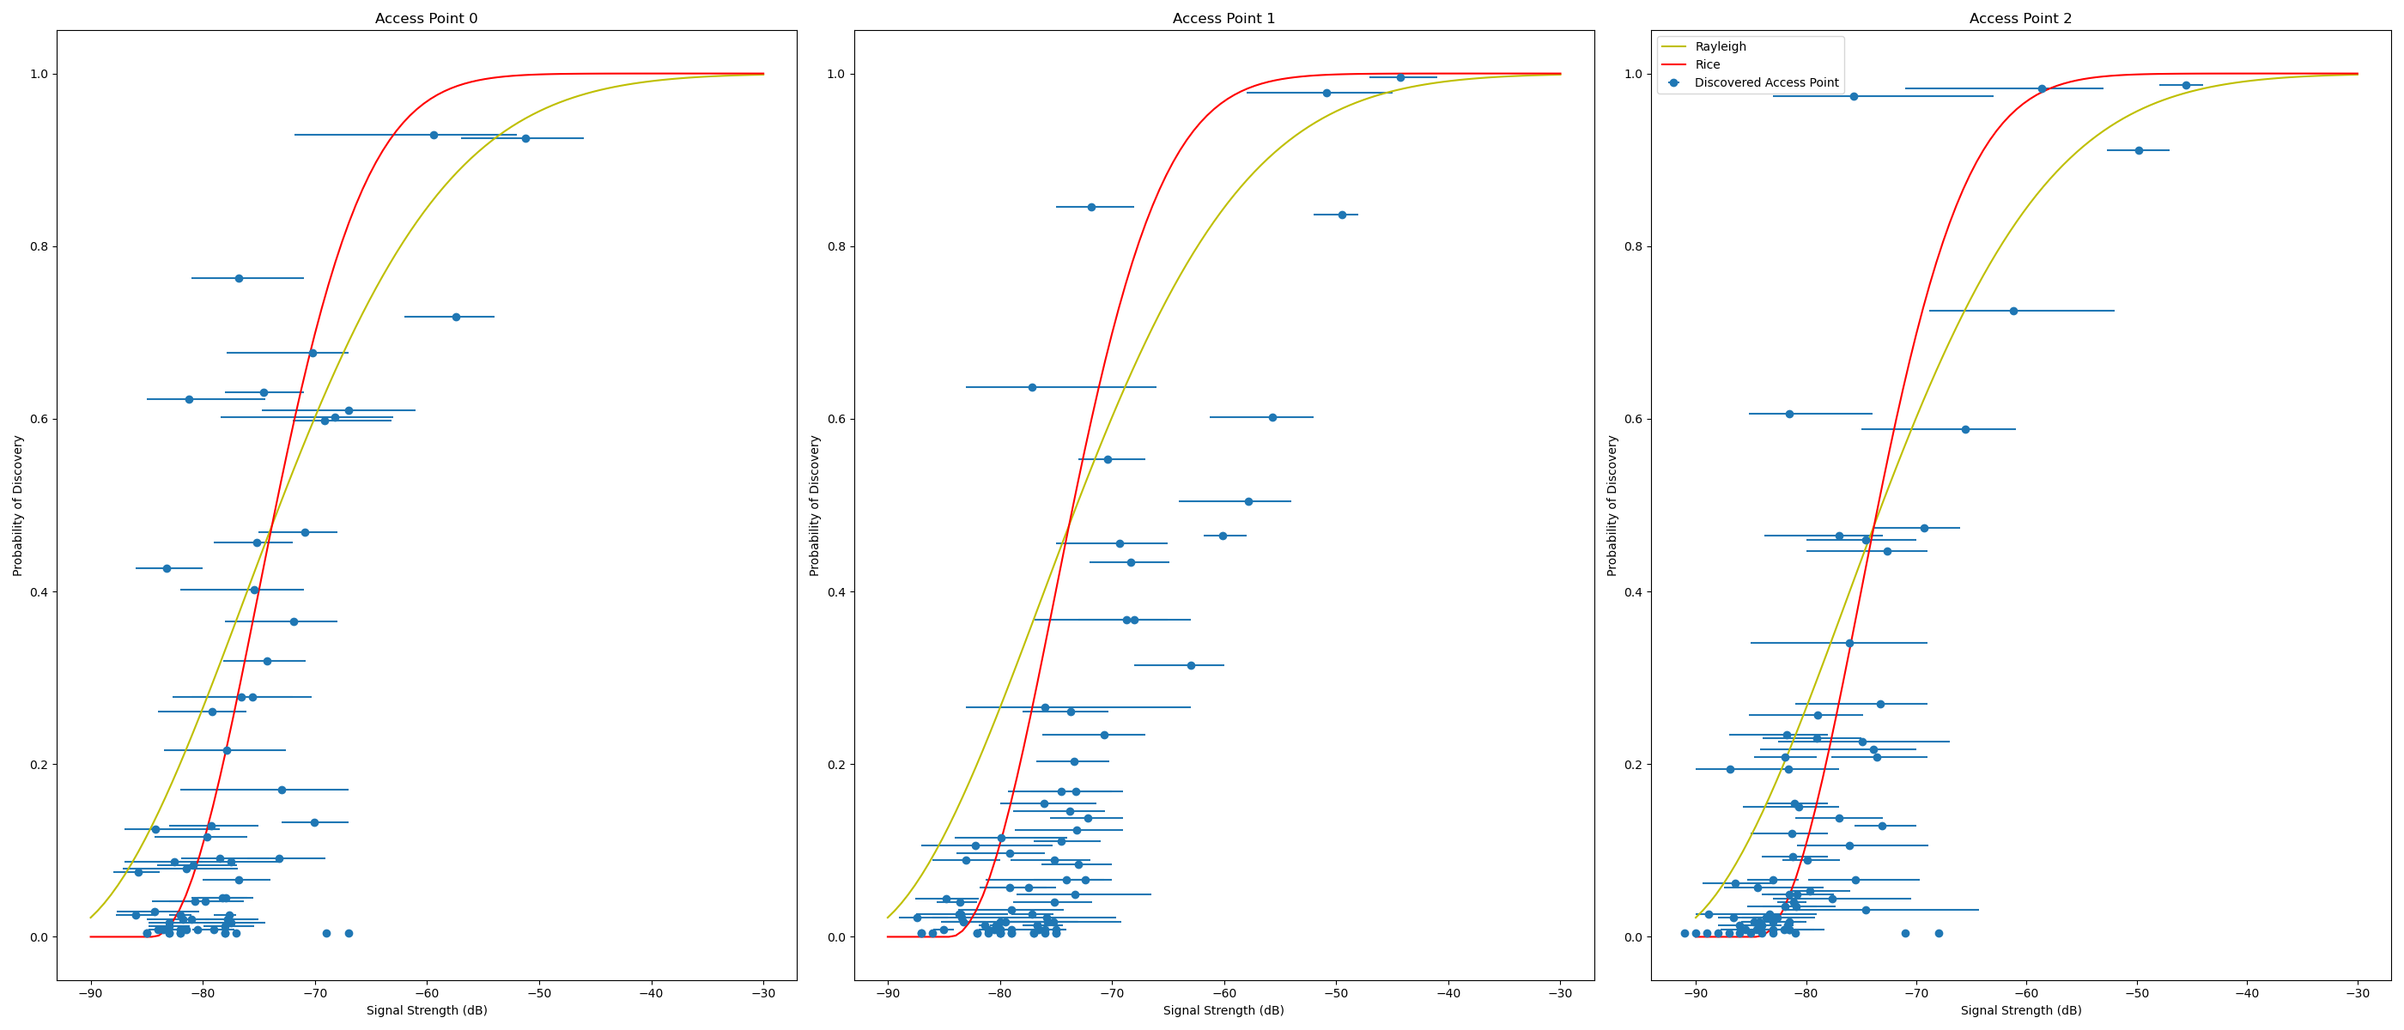
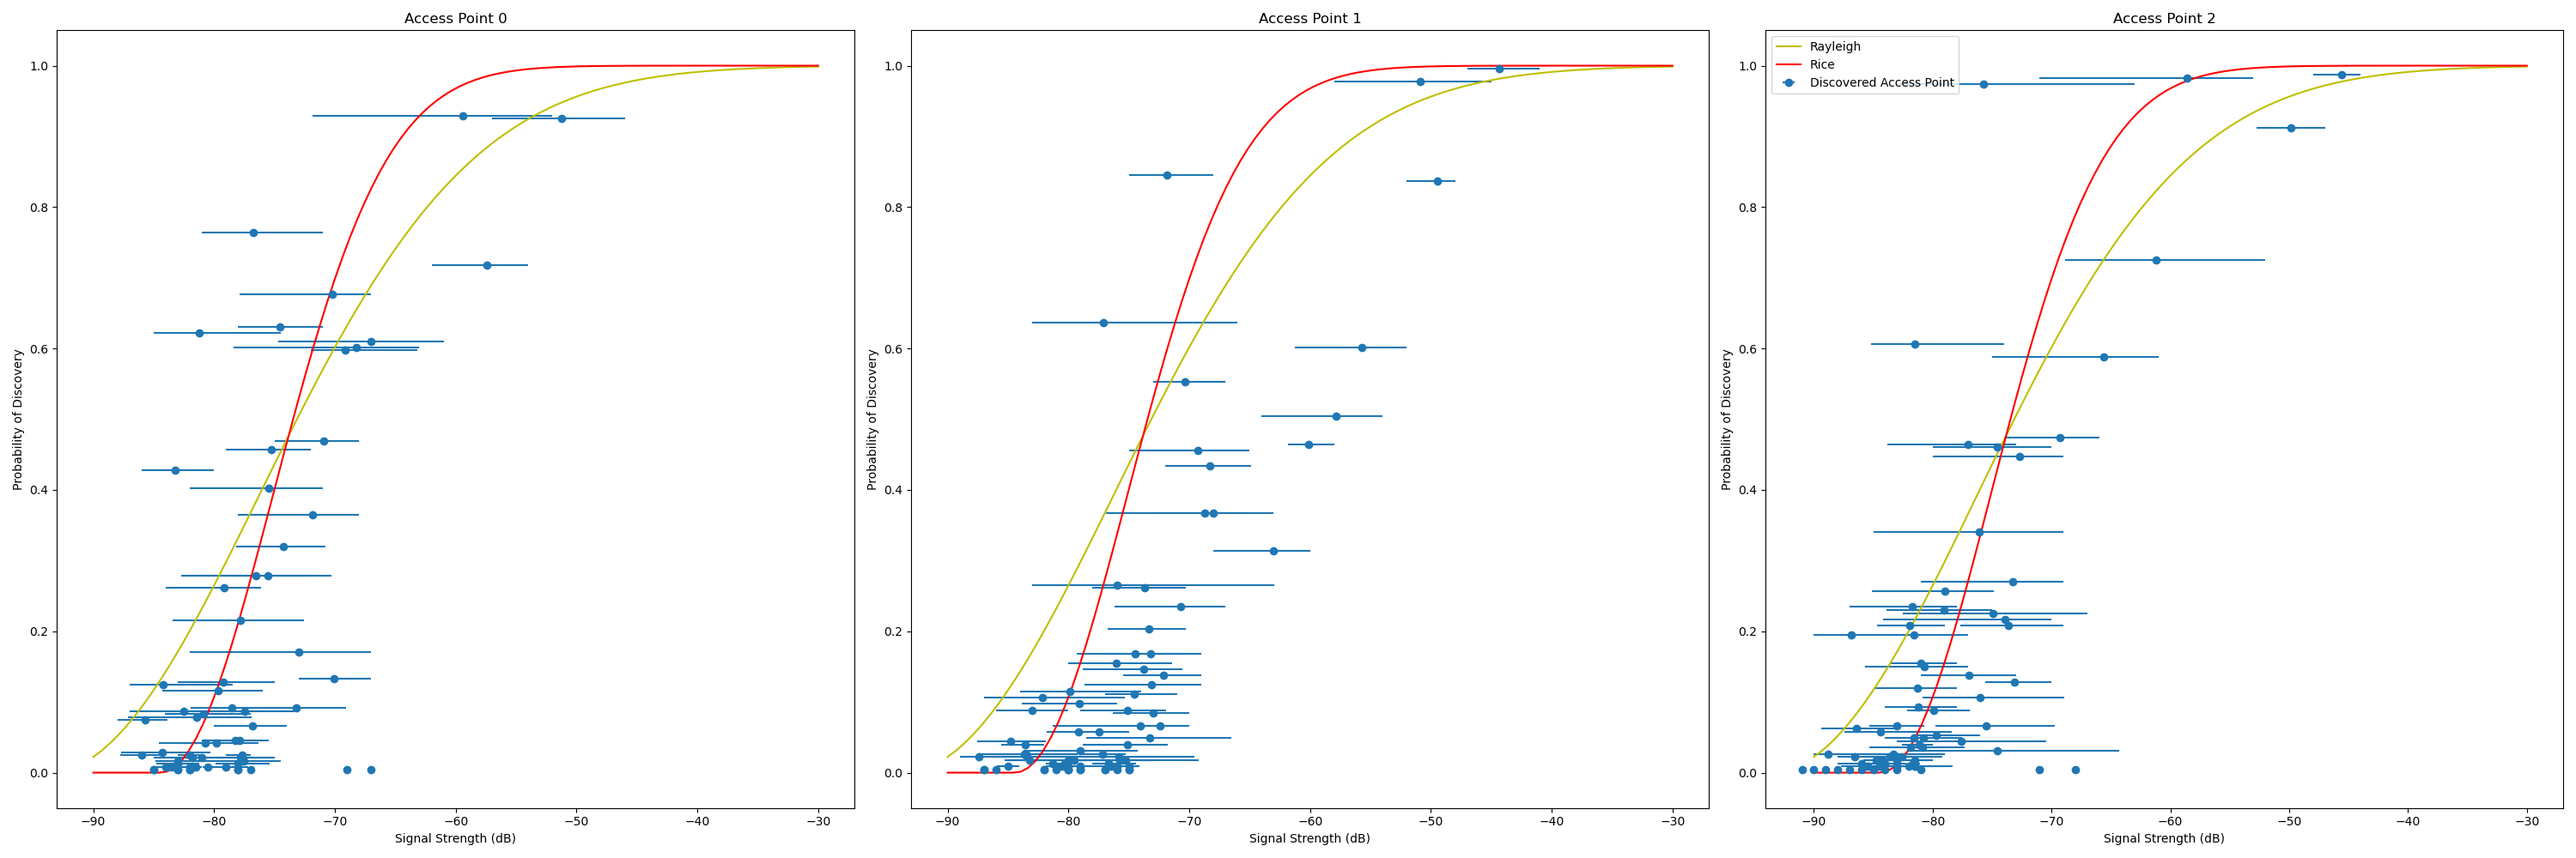
docs(results): Made access point and client graphs wider for better readbility
Now both AP and client graphs are 30x10 to make them look consistent

diff --git a/graphing/detection_probability.py b/graphing/detection_probability.py
@@ -73,7 +73,7 @@ def detection_probability(
     """
     db_sorted = [(len(scan), group_by_bss(scan)) for scan in access_point_data]
 
-    fig, axs = plt.subplots(ncols=len(db_sorted), figsize=(28, 12))
+    fig, axs = plt.subplots(ncols=len(db_sorted), figsize=(30, 10))
 
     for index, (amount, aps) in enumerate(db_sorted):
         ap_probabilities = {

diff --git a/docs/thesis/source/06_results.md b/docs/thesis/source/06_results.md
@@ -69,8 +69,14 @@ signal strength. This relationship can be seen in figure {@fig:fullscanresults},
 and in addition we can see the variation in the observed signal strength via the
 bars going left to right of each point. These bars are limited to the 95th 
 percentile to weed out outliers in the dataset.
-       
-![Access points discovered for a "full" scan](static/ap_full_scan.png){#fig:fullscanresults}
+
+\begin{figure}
+    \centering
+    \includegraphics[width=1.3\textwidth,center]{static/ap_full_scan.png}
+    
+    \caption{Access points discovered for a "full" scan}
+    \label{fig:fullscanresults}
+\end{figure}
 
 Overall we see that signals without line of sight nicely follows the reighley 
 curve. Though there are also some access points that have a high chance of 
@@ -134,17 +140,17 @@ Table: Access points discovered accross all scans accross the different
 \begin{figure}
     \centering
       
-    \begin{subfigure}[b]{\textwidth}
+    \begin{subfigure}{\textwidth}
         \centering
-        \includegraphics[width=\textwidth]{static/ap_selective_main_scan.png}
+        \includegraphics[width=1.3\textwidth,center]{static/ap_selective_main_scan.png}
         
         \caption{Scanning channels 1, 6 and 11}
         \label{fig:selectivescanresultsmain}
     \end{subfigure}
       
-    \begin{subfigure}[b]{\textwidth}
+    \begin{subfigure}{\textwidth}
         \centering
-        \includegraphics[width=\textwidth]{static/ap_selective_alt_scan.png}
+        \includegraphics[width=1.3\textwidth,center]{static/ap_selective_alt_scan.png}
         
         \caption{Scanning channels 1, 3, 5, 7, 9 and 11}
         \label{fig:selectivescanresultsalt}
@@ -202,25 +208,25 @@ Table: Access points discovered accross all scans accross the
 \begin{figure}
     \centering
       
-    \begin{subfigure}[b]{\textwidth}
+    \begin{subfigure}{\textwidth}
         \centering
-        \includegraphics[width=\textwidth]{static/ap_smooth_300_scan.png}
+        \includegraphics[width=1.3\textwidth,center]{static/ap_smooth_300_scan.png}
         
         \caption{300ms interval}
         \label{fig:smoothscanresults300}
     \end{subfigure}
       
-    \begin{subfigure}[b]{\textwidth}
+    \begin{subfigure}{\textwidth}
         \centering
-        \includegraphics[width=\textwidth]{static/ap_smooth_600_scan.png}
+        \includegraphics[width=1.3\textwidth,center]{static/ap_smooth_600_scan.png}
         
         \caption{600ms interval}
         \label{fig:smoothscanresults600}
     \end{subfigure}
       
-    \begin{subfigure}[b]{\textwidth}
+    \begin{subfigure}{\textwidth}
         \centering
-        \includegraphics[width=\textwidth]{static/ap_smooth_1200_scan.png}
+        \includegraphics[width=1.3\textwidth,center]{static/ap_smooth_1200_scan.png}
         
         \caption{1200ms interval}
         \label{fig:smoothscanresults1200}
@@ -360,7 +366,7 @@ issues while scanning.
       
     \begin{subfigure}[b]{\textwidth}
         \centering
-        \includegraphics[width=\textwidth,center]{static/cli_full_scan_latency.png}
+        \includegraphics[width=1.3\textwidth,center]{static/cli_full_scan_latency.png}
         
         \caption{
             Client latency. The spikes are a result of the access point scanning 
@@ -371,7 +377,7 @@ issues while scanning.
       
     \begin{subfigure}[b]{\textwidth}
         \centering
-        \includegraphics[width=\textwidth,center]{static/cli_full_scan_goodput.png}
+        \includegraphics[width=1.3\textwidth,center]{static/cli_full_scan_goodput.png}
         
         \caption{
             Client goodput.
@@ -408,7 +414,7 @@ benifit in our goodput results.
       
     \begin{subfigure}[b]{\textwidth}
         \centering
-        \includegraphics[width=\textwidth,center]{static/cli_selective_main_latency.png}
+        \includegraphics[width=1.3\textwidth,center]{static/cli_selective_main_latency.png}
         
         \caption{
             Client latency. The spikes here are lower than the full scan, but 
@@ -419,7 +425,7 @@ benifit in our goodput results.
       
     \begin{subfigure}[b]{\textwidth}
         \centering
-        \includegraphics[width=\textwidth,center]{static/cli_selective_main_goodput.png}
+        \includegraphics[width=1.3\textwidth,center]{static/cli_selective_main_goodput.png}
         
         \caption{
             Client goodput. The dips in goodput are smaler in this case, 
@@ -445,7 +451,7 @@ selective scan on channels 1, 6 and 11.
       
     \begin{subfigure}[b]{\textwidth}
         \centering
-        \includegraphics[width=\textwidth,center]{static/cli_selective_alt_latency.png}
+        \includegraphics[width=1.3\textwidth,center]{static/cli_selective_alt_latency.png}
         
         \caption{
             Client latency. The latency spikes seems to show roughly the same 
@@ -456,7 +462,7 @@ selective scan on channels 1, 6 and 11.
       
     \begin{subfigure}[b]{\textwidth}
         \centering
-        \includegraphics[width=\textwidth,center]{static/cli_selective_alt_goodput.png}
+        \includegraphics[width=1.3\textwidth,center]{static/cli_selective_alt_goodput.png}
         
         \caption{
             Client goodput
@@ -497,7 +503,7 @@ the tests or due to RF noise.
       
     \begin{subfigure}[b]{\textwidth}
         \centering
-        \includegraphics[width=\textwidth,center]{static/cli_smooth_300_latency.png}
+        \includegraphics[width=1.3\textwidth,center]{static/cli_smooth_300_latency.png}
         
         \caption{
             Client latency. In these results the spikes in latency seems random,
@@ -509,7 +515,7 @@ the tests or due to RF noise.
       
     \begin{subfigure}[b]{\textwidth}
         \centering
-        \includegraphics[width=\textwidth,center]{static/cli_smooth_300_goodput.png}
+        \includegraphics[width=1.3\textwidth,center]{static/cli_smooth_300_goodput.png}
         
         \caption{
             Client goodput
@@ -528,7 +534,7 @@ the tests or due to RF noise.
       
     \begin{subfigure}[b]{\textwidth}
         \centering
-        \includegraphics[width=\textwidth,center]{static/cli_smooth_600_latency.png}
+        \includegraphics[width=1.3\textwidth,center]{static/cli_smooth_600_latency.png}
         
         \caption{
             Client latency
@@ -538,7 +544,7 @@ the tests or due to RF noise.
       
     \begin{subfigure}[b]{\textwidth}
         \centering
-        \includegraphics[width=\textwidth,center]{static/cli_smooth_600_goodput.png}
+        \includegraphics[width=1.3\textwidth,center]{static/cli_smooth_600_goodput.png}
         
         \caption{
             Client goodput
@@ -557,7 +563,7 @@ the tests or due to RF noise.
       
     \begin{subfigure}[b]{\textwidth}
         \centering
-        \includegraphics[width=\textwidth,center]{static/cli_smooth_1200_latency.png}
+        \includegraphics[width=1.3\textwidth,center]{static/cli_smooth_1200_latency.png}
         
         \caption{
             Client latency
@@ -567,7 +573,7 @@ the tests or due to RF noise.
       
     \begin{subfigure}[b]{\textwidth}
         \centering
-        \includegraphics[width=\textwidth,center]{static/cli_smooth_1200_goodput.png}
+        \includegraphics[width=1.3\textwidth,center]{static/cli_smooth_1200_goodput.png}
         
         \caption{
             Client goodput
